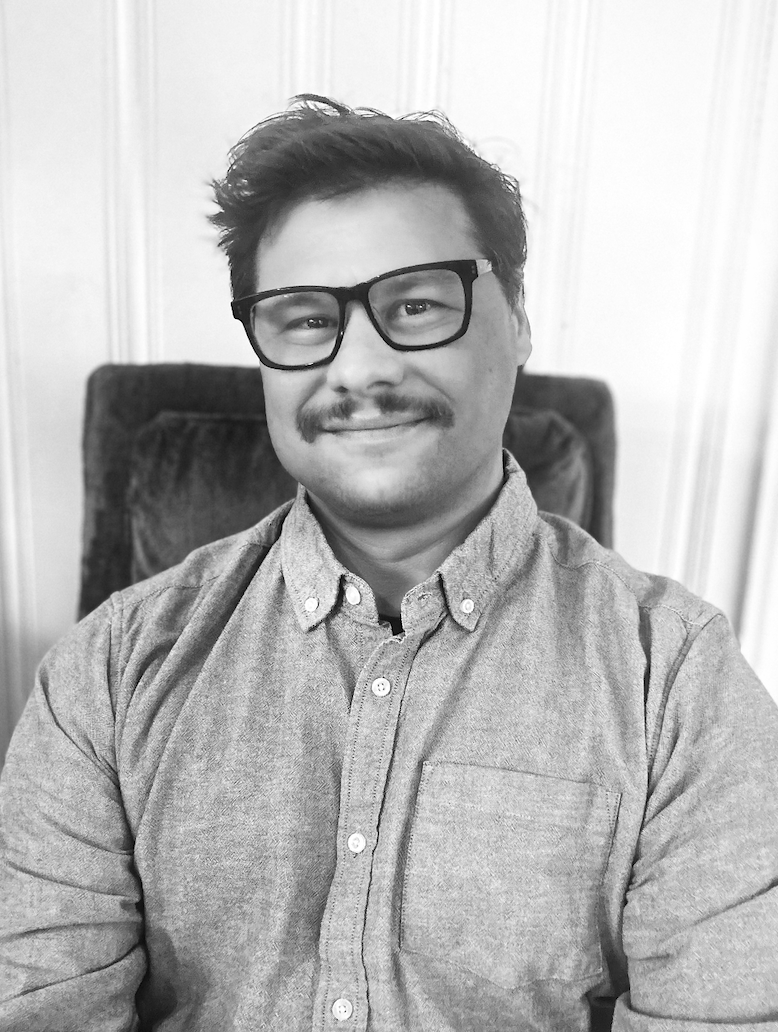
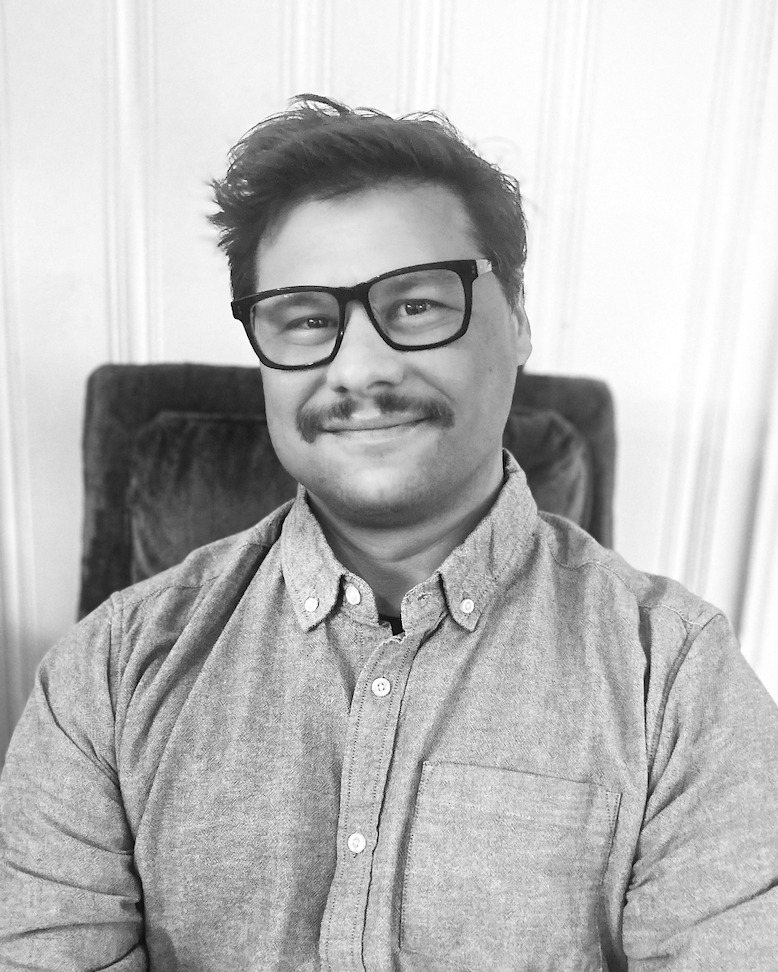
update2

diff --git a/index.html b/index.html
@@ -57,7 +57,7 @@
         <p class="hero-pitch">I lead cross-functional teams that turn big ideas into digital products, campaigns and experiences. More than twenty years across advertising and product.</p>
         <p class="hero-cta"><a class="btn btn-light" href="#work">See the work</a><a class="btn btn-line" href="Ryan-Micklos-Resume.pdf">Download resume</a></p>
       </div>
-      <figure class="hero-photo"><img src="assets/ryan.jpg" alt="Ryan Micklos smiling in dark-framed glasses and a cardigan" width="1100" height="1100" fetchpriority="high"></figure>
+      <figure class="hero-photo"><img src="assets/ryan.jpg" alt="Ryan Micklos smiling in dark-framed glasses and a cardigan" width="778" height="972" fetchpriority="high"></figure>
       <aside class="hero-aside" aria-label="Recent accounts and certification">
         <p class="hero-aside-title">Recent accounts</p>
         <ul><li>American Airlines</li><li>Citi</li><li>Wells Fargo</li><li>House of Suntory</li><li>JBL</li></ul>
@@ -80,7 +80,7 @@
   </section>
 
   <section class="section wrap about" id="about" aria-labelledby="about-title">
-    <figure class="about-photo"><img src="assets/ryan.jpg" alt="" width="1100" height="1100" loading="lazy" decoding="async"></figure>
+    <figure class="about-photo"><img src="assets/ryan.jpg" alt="" width="778" height="972" loading="lazy" decoding="async"></figure>
     <div class="about-text">
       <h2 id="about-title">Pleasure to meet you. I’m Ryan.</h2>
       <p>I’m a spirited digital professional with a creative and product focus and more than 20 years of experience delivering digital experiences, products, campaigns and experiential work for major brands and global agencies. Whether I’m bringing new products to market, creating best-in-class web experiences or delving into new tech, my natural habitat is leading talented, cross-functional teams, translating business objectives into actionable programs and guiding the work from strategy and scoping through launch.</p>
